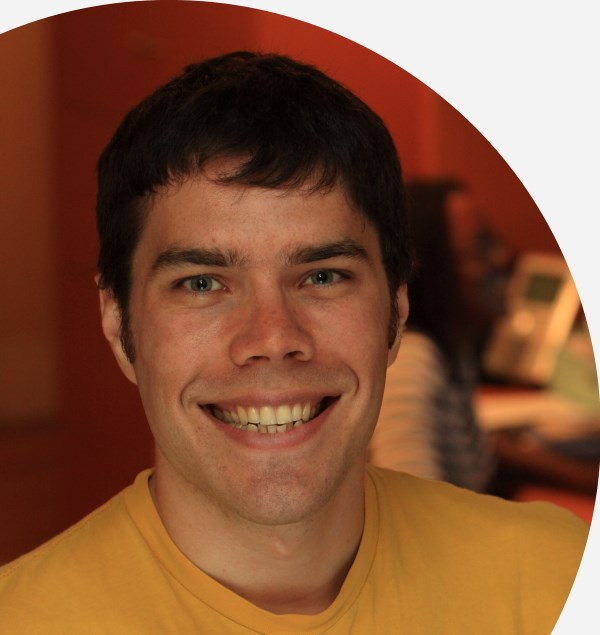
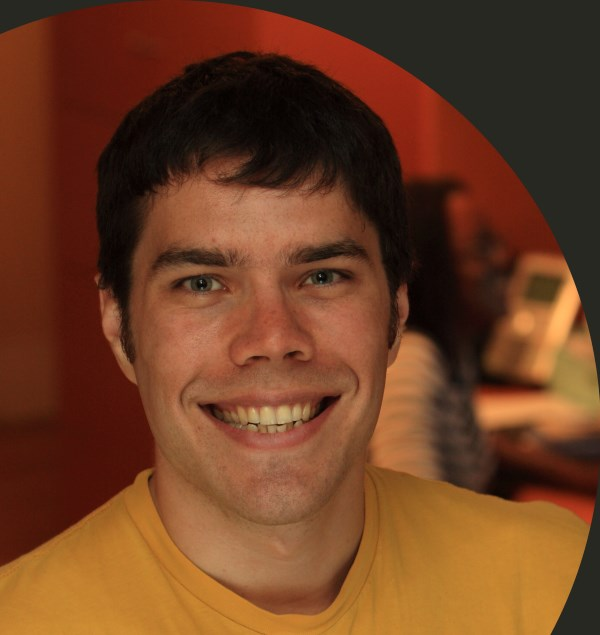
Fixed weird topCard in inforbar.
The inforbar topcard is now darker.

Changed region(s): [[0.33, 0.0, 1.0, 0.6283], [0.9, 0.7181, 1.0, 1.0], [0.0, 0.0, 0.21, 0.0598]]

diff --git a/elements/malavv-infobar/malavv-infobar.html b/elements/malavv-infobar/malavv-infobar.html
@@ -3,21 +3,39 @@
   <style>
   :host {
     @apply(--layout-vertical);
-    width: 310px;
-
+  };
+  
+  :host #top-card {
+    height: 160px;
+    display: block;
+    font-family: 'Roboto', sans-serif;
+    font-weight: 400;
+    background-image: url('../../img/internal/me_muhc_weird2.jpg');
+    background-size: 160px 160px;
+    background-repeat: no-repeat;
+    background-color: #272822;
   };
 
-  .name {
+  :host .panel {
+    @apply(--layout-vertical);
+    @apply(--layout-center);
+    float: right;
+    width: 175px;
+    height: 100%;
+  }
+
+  :host .panel .name {
     font-size: 1.5em;
     font-weight: 300;
     padding-top: 11px;
+    color: #cdcdcd;
   }
 
   :host .panel .workTitle {
     font-size: 1em;
-    color: #004907;
+    color: #939393;
   }
-  .handle {
+  :host .panel .handle {
     @apply(--layout-horizontal);
     @apply(--layout-end);
     @apply(--layout-flex);
@@ -38,25 +56,6 @@
     float: right;
   }
 
-  #top-card {
-    height: 160px;
-    display: block;
-    font-family: 'Roboto', sans-serif;
-    font-weight: 400;
-    background-image: url('../../img/internal/me_muhc_weird2.jpg');
-    background-size: 160px 160px;
-    background-repeat: no-repeat;
-    background-color: #f3f3f3;
-    /*@apply(--shadow-elevation-2dp);*/
-    /*@apply(--layout-horizontal);*/
-  }
-  .panel {
-    @apply(--layout-vertical);
-    @apply(--layout-center);
-    float: right;
-    width: 175px;
-    height: 100%;
-  }
   #controls {
     @apply(--layout-vertical);
     @apply(--layout-flex);
@@ -80,7 +79,6 @@
   <template>
     <paper-material elevation="1">
       <div id="top-card">
-        <!-- <iron-image src="../../img/internal/me_muhc_weird2.jpg" sizing="cover"></iron-image> -->
         <div class="panel">
           <div class="name">{{name}}</div>
           <div class="workTitle">{{workTitle}}</div>

diff --git a/elements/malavv-site/malavv-site.html b/elements/malavv-site/malavv-site.html
@@ -33,6 +33,7 @@
 
     :host malavv-infobar {
       @apply(--layout-flex);
+      width: 310px;
     }
   </style>
 
